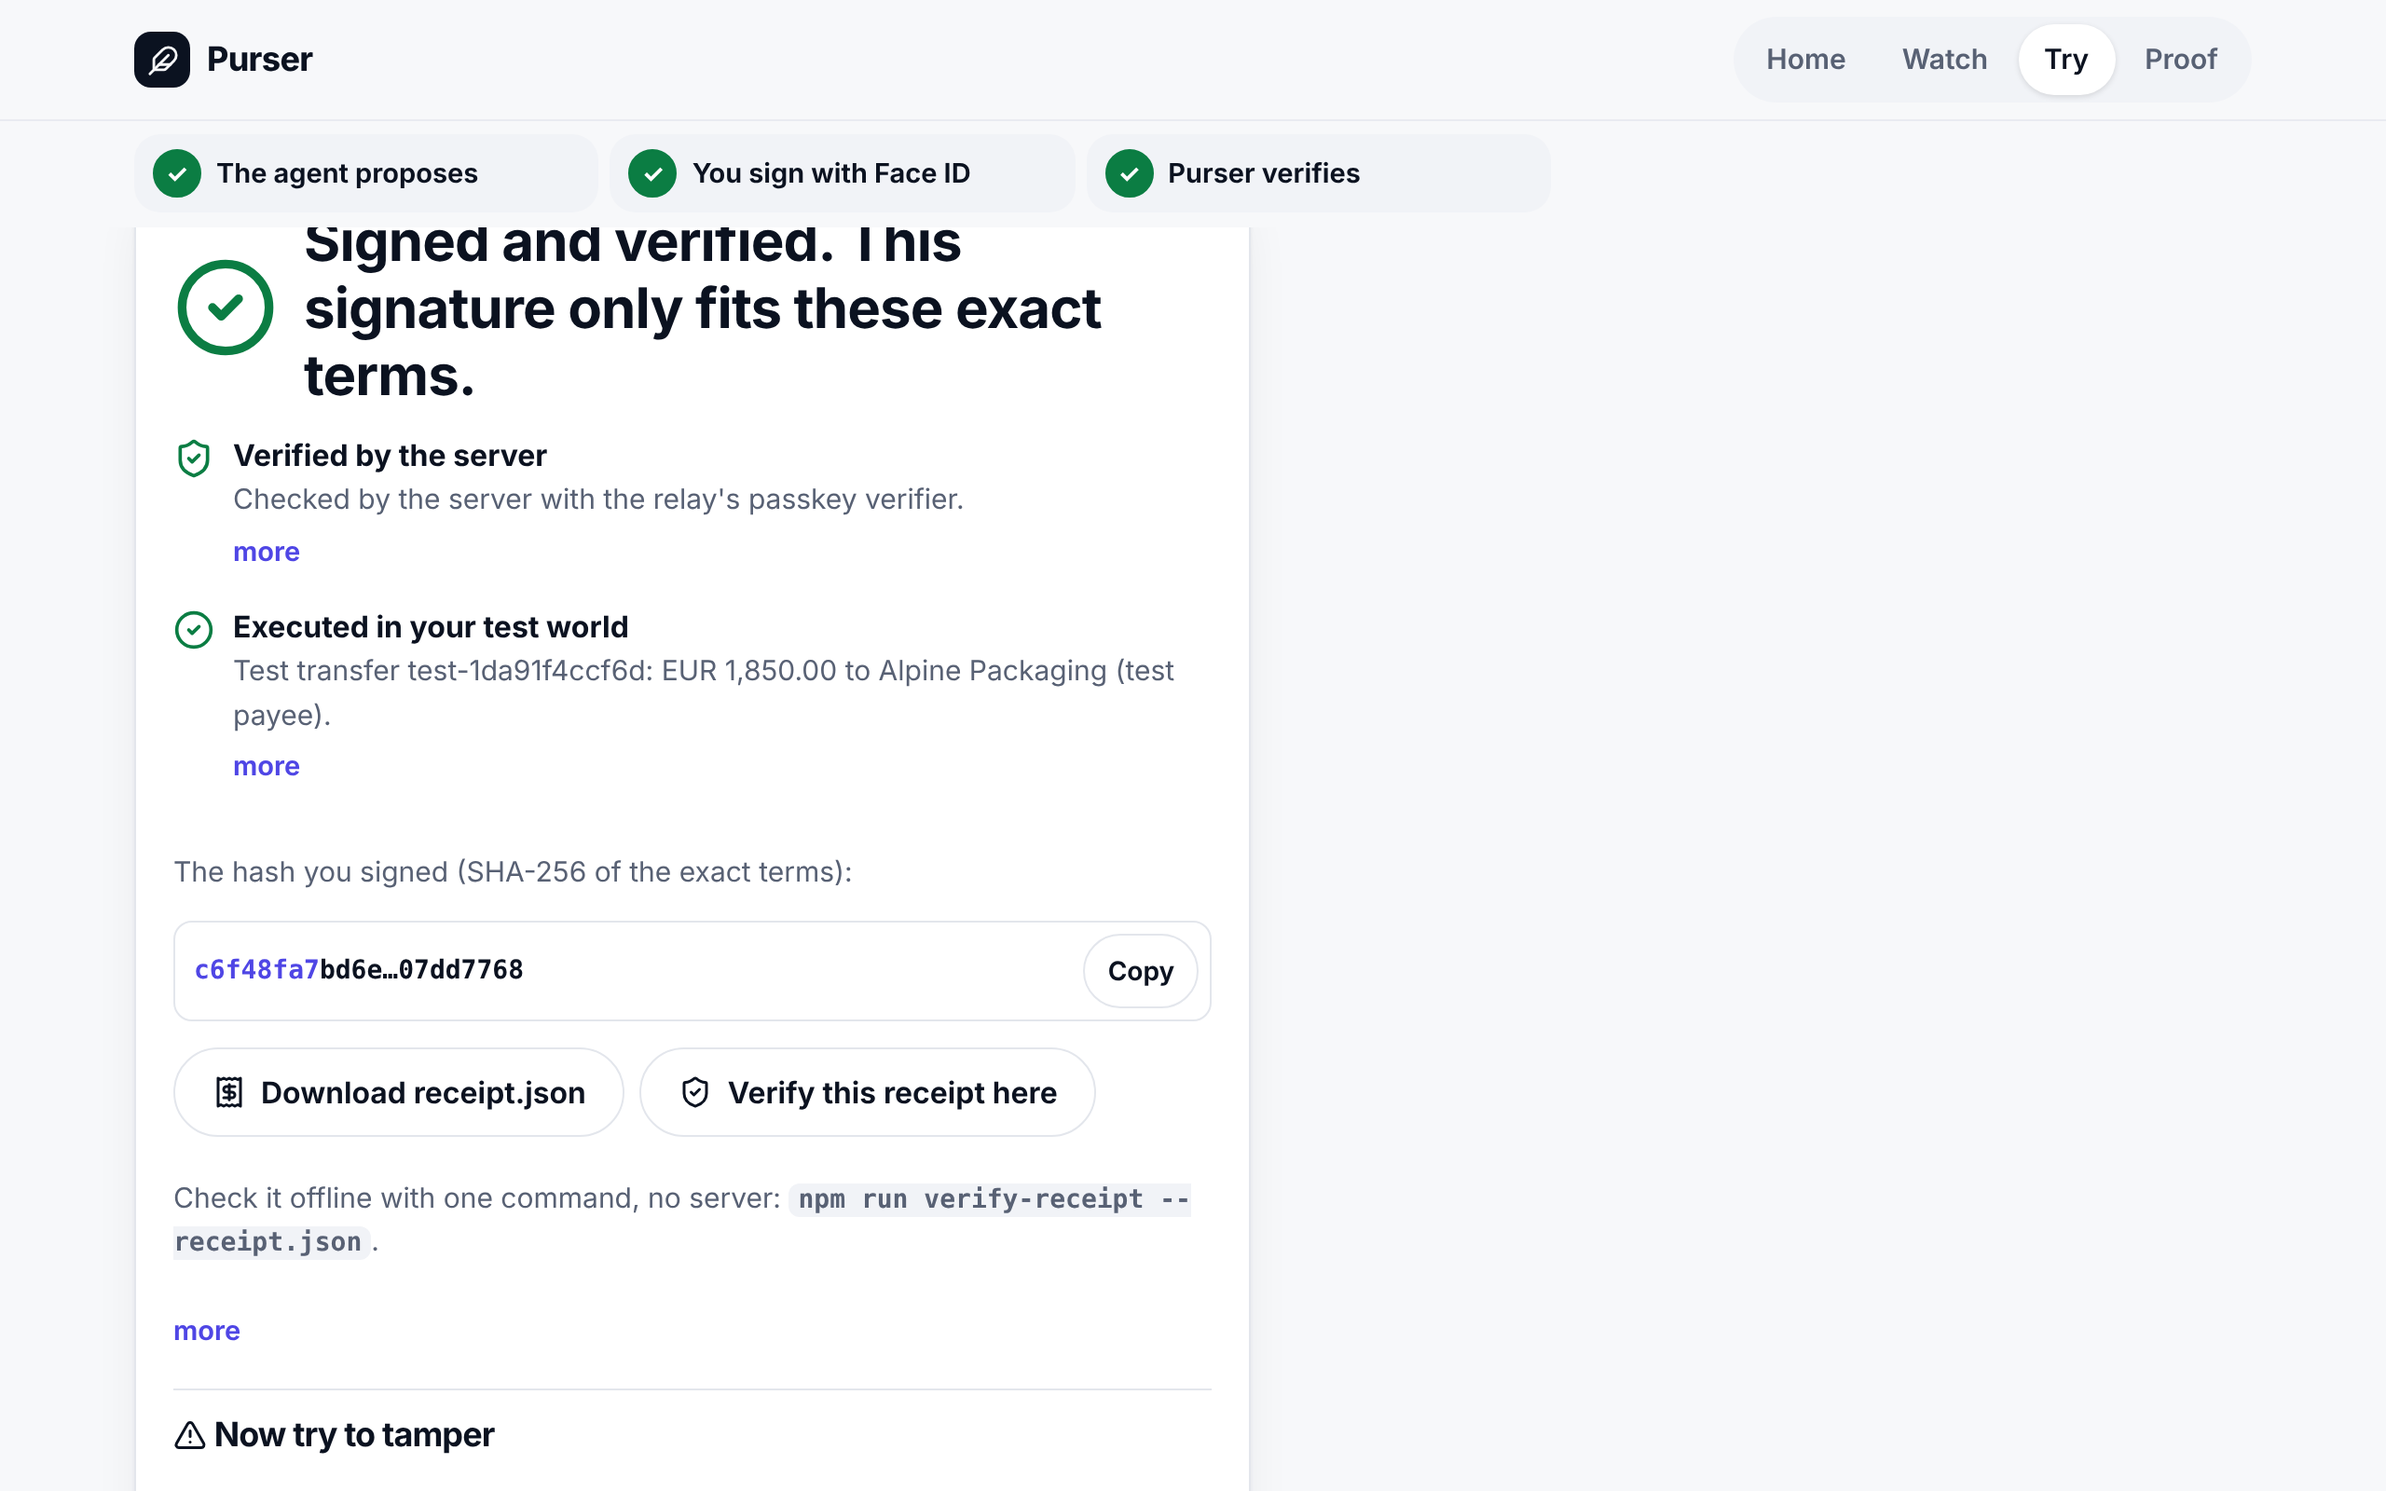
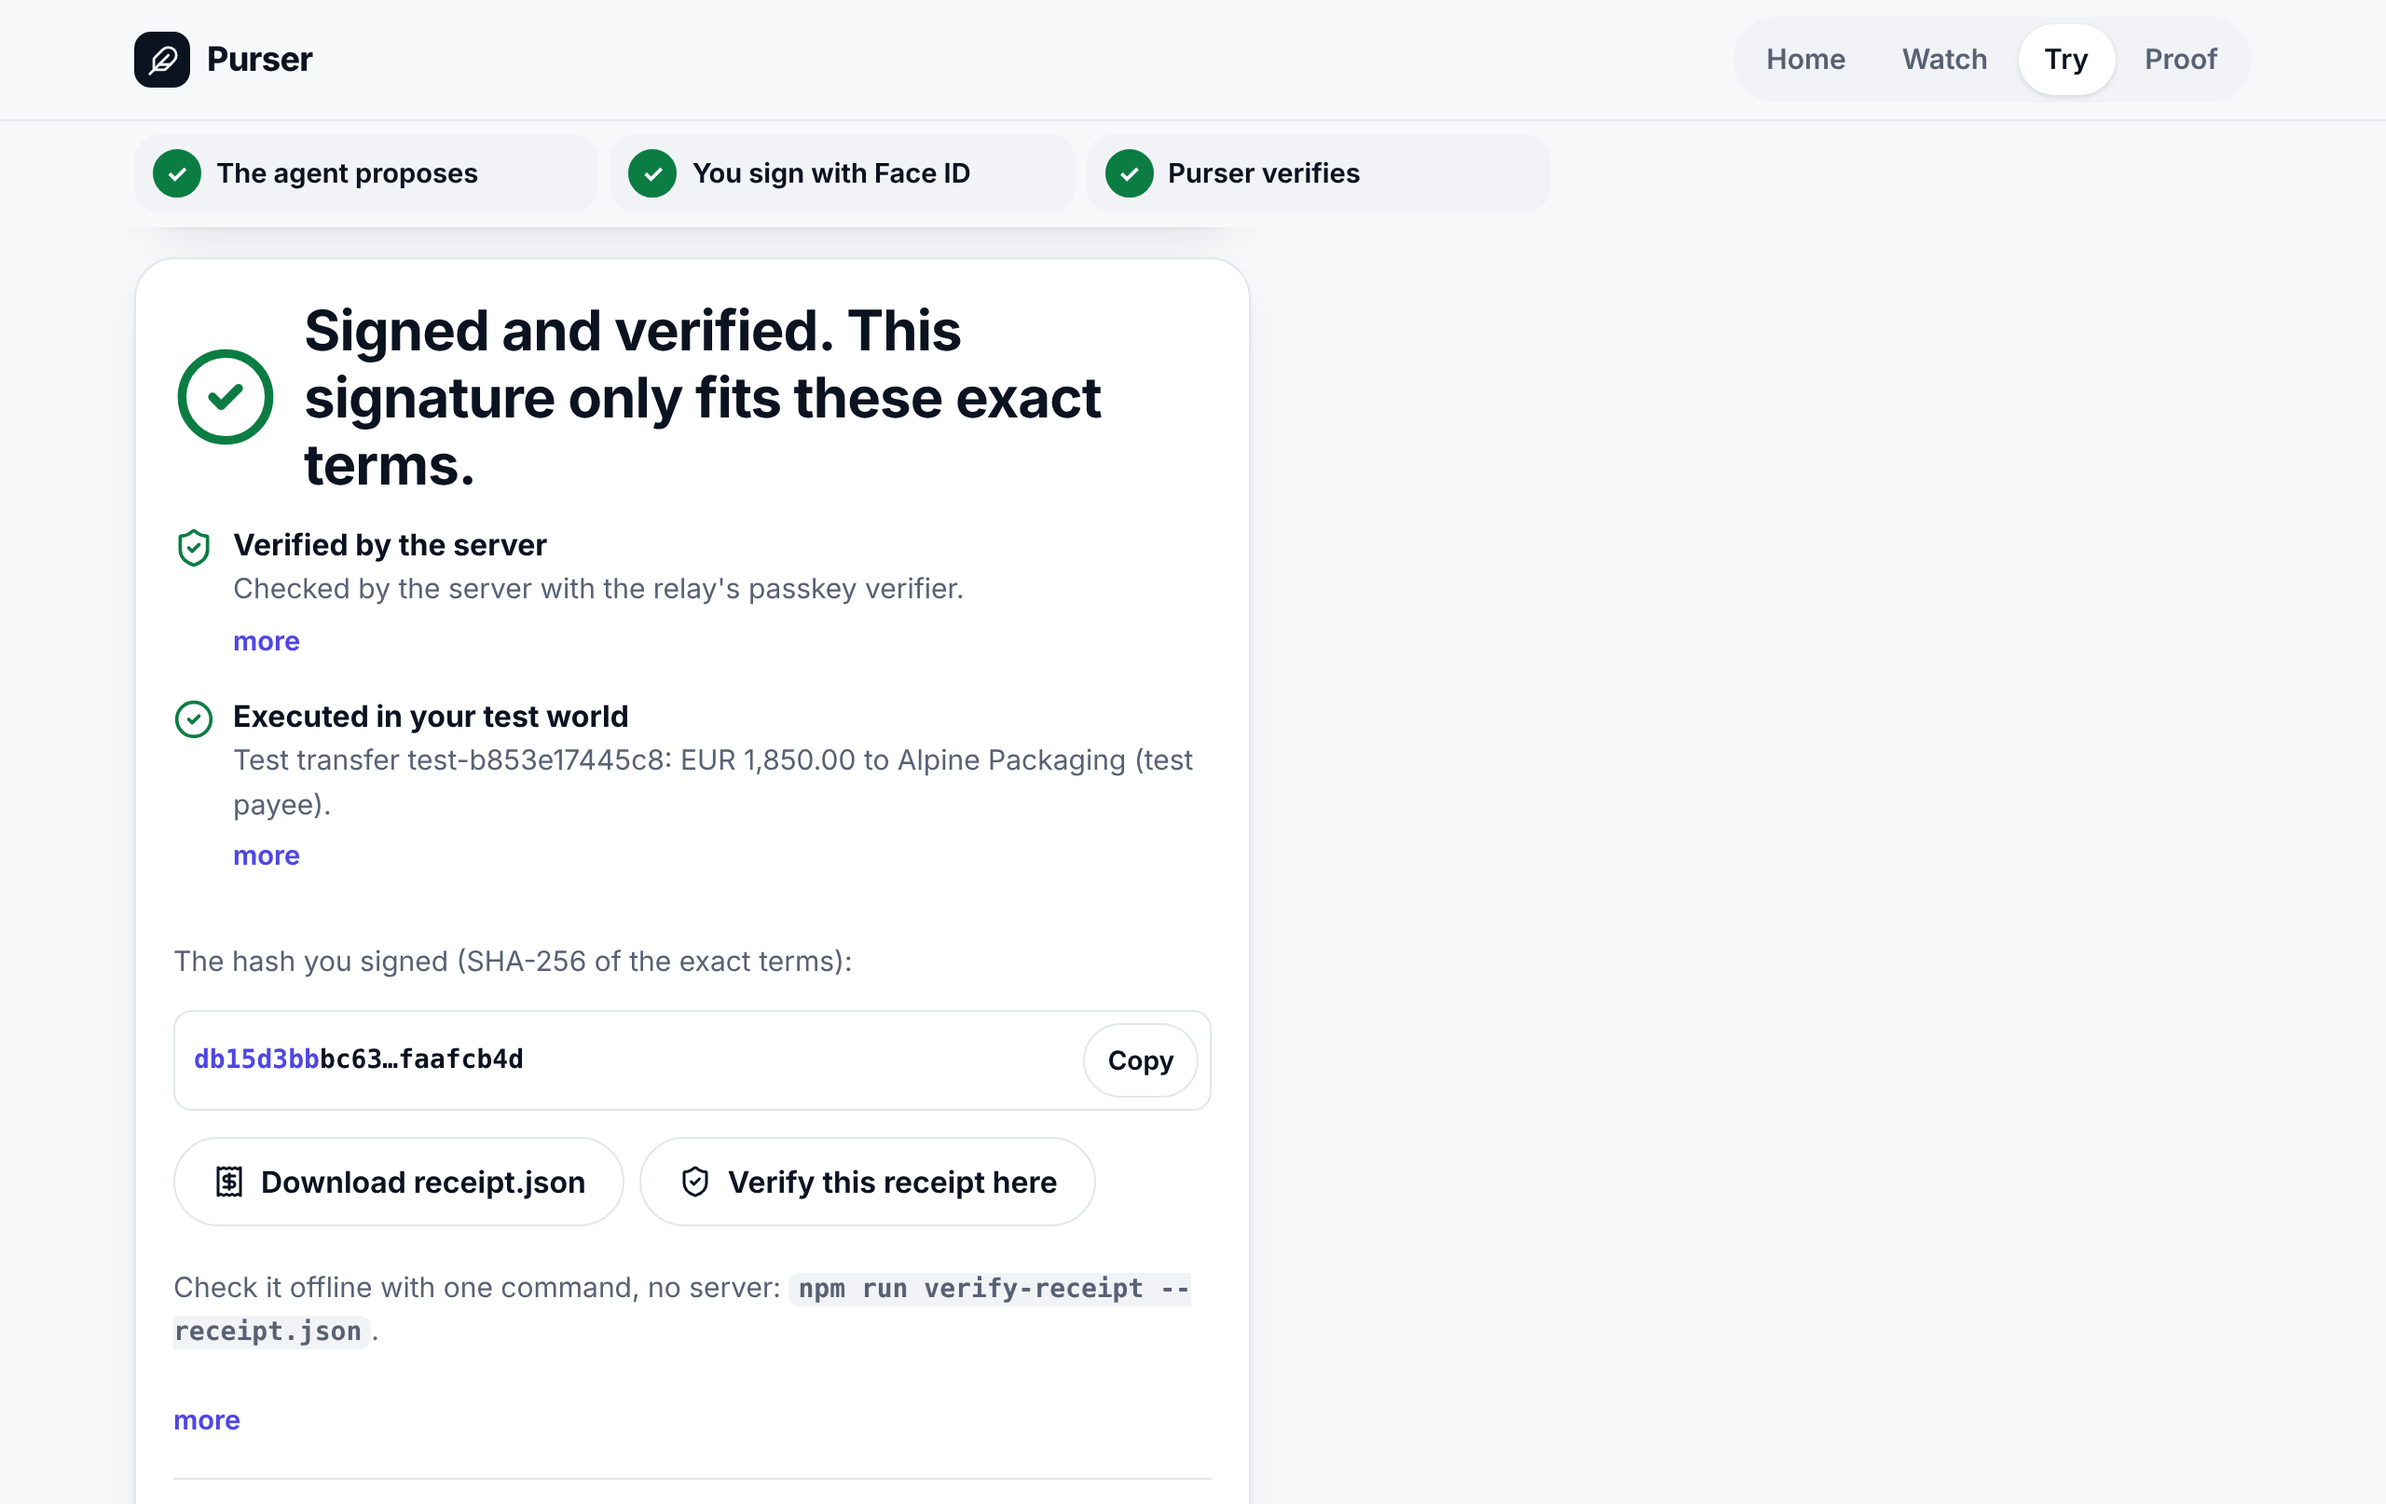
D6: screens 2-4 reframed from a second /try/sign world: each card's top below the sticky step bar, the viewport as tall as the card
Claude-Session: https://claude.ai/code/session_017bq3Bxz45idsGUgFJjRs4G

diff --git a/docs/submission/README.md b/docs/submission/README.md
@@ -81,7 +81,7 @@ not known yet. `test/submission.test.ts` checks this count and keeps the text un
 ## Screenshots
 
 From the live site (https://kit11.max-31b.workers.dev, main 60569ef, Worker 3e8cd078) on 6 November, 1280 px wide at
-2× (2560 × 1600), light mode, in the form's order: the problem, try it, the proof per partner, the business. Screens
+2× (2560 px; 1600 px high, screens 2–4 as tall as their card), light mode, in the form's order: the problem, try it, the proof per partner, the business. Screens
 2–4 come from one test world on /try/sign (one live Airwallex FX quote, read-only, and one live Claude Haiku
 sentence; a test passkey; nothing real moves). The other pages replay the main run (3 November) and make no outside
 call.
